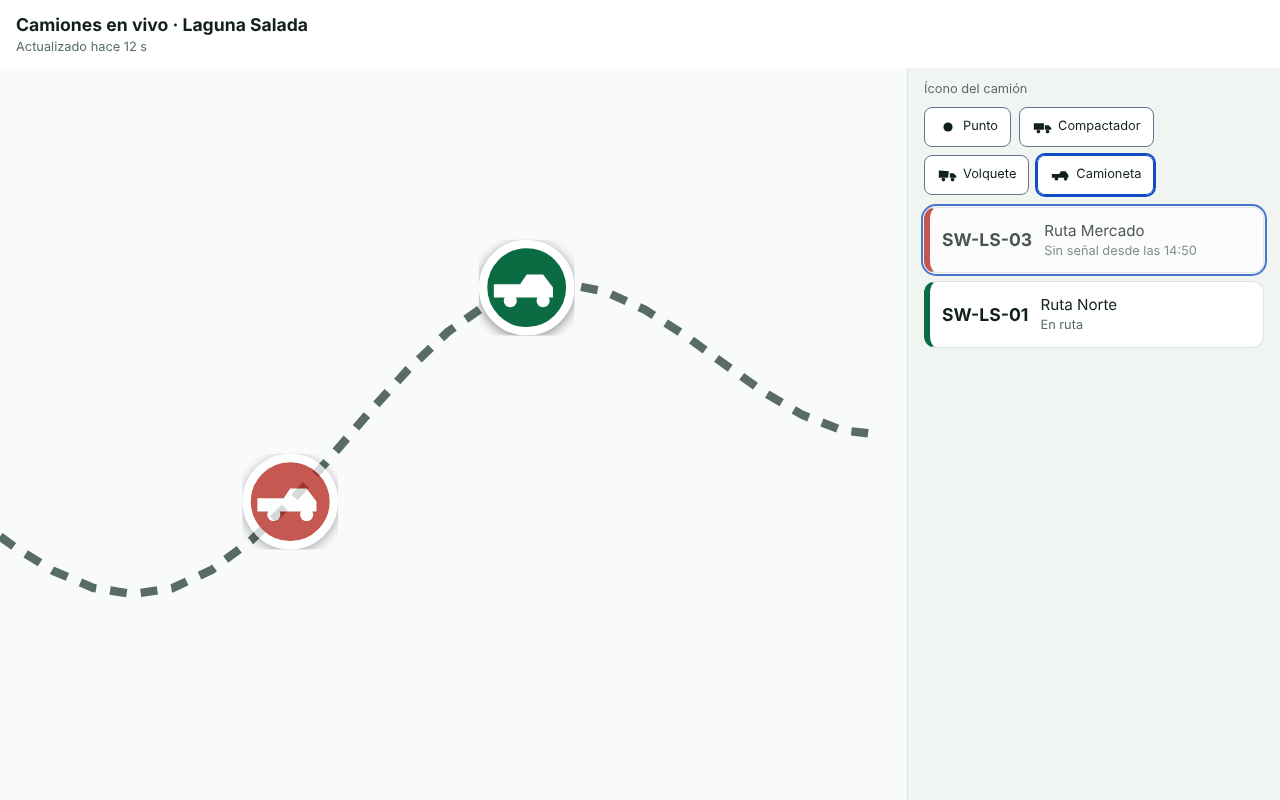
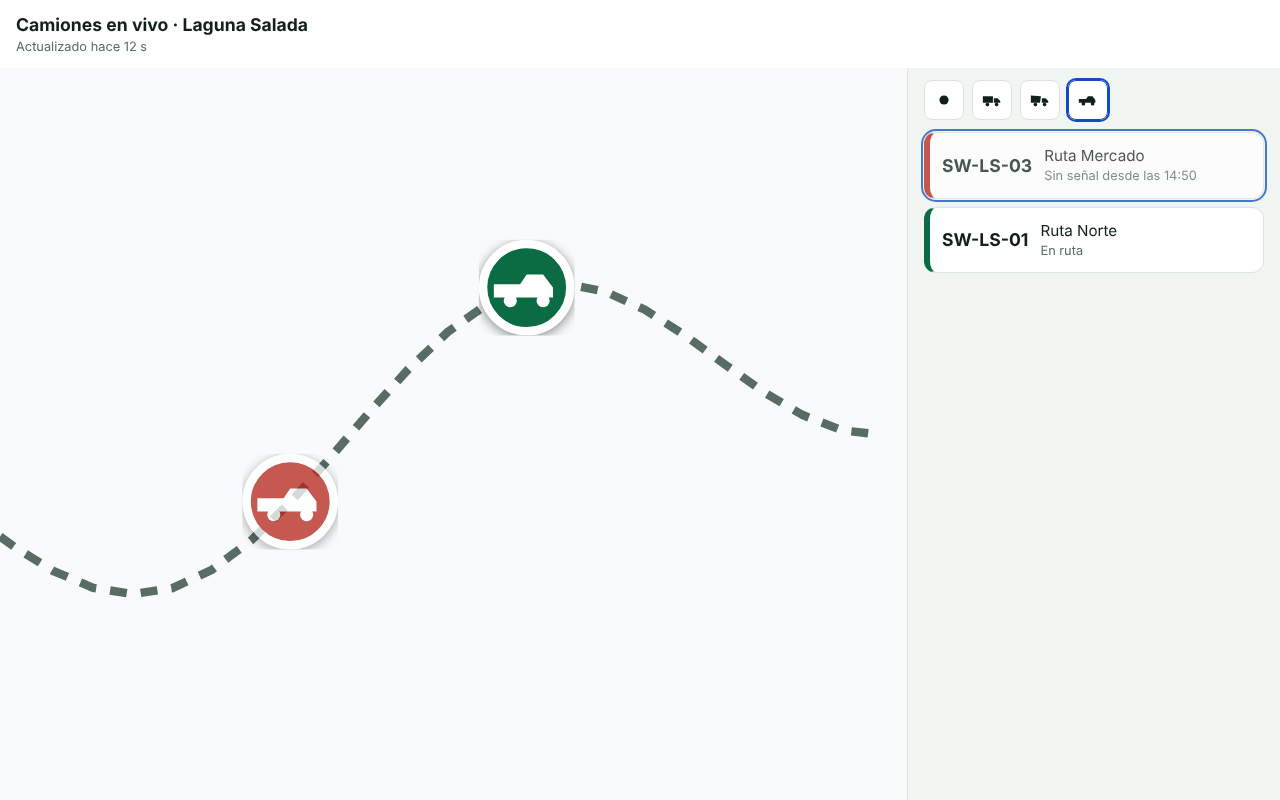
feat(SW-097): selector de íconos sin texto, estilo minimalista
Claude-Session: https://claude.ai/code/session_01TbnZphqsomRUw92ftRAxET

Changed region(s): [[0.7188, 0.0938, 1.0, 0.4375]]

diff --git a/docs/evidence/SW-097/harness-detenido.html b/docs/evidence/SW-097/harness-detenido.html
@@ -199,9 +199,8 @@
 .live-marker--detenido { background: var(--status-detenido); }
 .live-marker--sin_senal { background: var(--status-sin-senal); opacity: .75; }
 .live-icons { display: flex; flex-direction: column; gap: var(--space-2); }
-.live-icons__label { font-size: var(--font-size-1); color: var(--color-muted); }
 .live-icons__row { display: flex; flex-wrap: wrap; gap: var(--space-2); }
-.live-icon-option { display: inline-flex; align-items: center; gap: var(--space-1); padding: var(--space-2) var(--space-3); border: 1px solid var(--color-border-input); border-radius: var(--radius-1); background: var(--color-surface); color: var(--color-text); font: inherit; font-size: var(--font-size-1); cursor: pointer; }
+.live-icon-option { display: inline-flex; align-items: center; gap: var(--space-1); padding: var(--space-2); border: 1px solid var(--color-border); border-radius: var(--radius-1); background: var(--color-surface); color: var(--color-text); font: inherit; font-size: var(--font-size-1); cursor: pointer; }
 .live-icon-option[aria-pressed="true"] { border-color: var(--color-focus); outline: 2px solid var(--color-focus); }
 @media (min-width: 900px) {
   .live-shell { height: 100vh; }
@@ -209,4 +208,4 @@
   .live-map { flex: 1; height: auto; }
   .live-panel { width: 340px; overflow-y: auto; border-left: 1px solid var(--color-border); }
 }
-</style><script>var t=new URLSearchParams(location.search).get('t');document.documentElement.dataset.theme=t==='claro'?'claro':'oscuro';</script></head><body class="live-page"><div class="live-shell"><header class="live-header"><h1 class="live-header__title">Camiones en vivo · Laguna Salada</h1><p class="live-header__updated" aria-live="polite">Actualizado hace 6 s</p></header><div class="live-body"><div class="live-map"><svg viewBox="0 0 400 260" preserveAspectRatio="xMidYMid slice" role="img" aria-label="Mapa de ejemplo"><rect width="400" height="260" fill="var(--color-background-alt)"/><polyline points="30,160 44,170.0877878718461 58,178.7347921227895 72,184.65883939231585 86,186.87751605453252 100,184.81631831007059 114,178.37189707302727 128,167.92343526953297 142,154.29090506543247 156,138.6448003223947 170,122.37728148498059 184,106.9489180564662 198,93.72790018768288 212,83.83941994916952 226,78.04180331608288 240,76.64302901347446 254,79.4668243372968 268,85.87207033022764 282,94.82338007204297 296,105.00508039528691 310,114.9660492228488 324,123.27946394875156 338,128.69987478475224 352,130.30031147945493" fill="none" stroke="var(--color-muted)" stroke-width="3" stroke-dasharray="6 5"/><foreignObject x="125" y="137.29090506543247" width="34" height="34"><span class="live-marker live-marker--detenido"><svg viewBox="0 0 24 24" width="22" height="22" aria-hidden="true"><path fill="currentColor" d="M2 7l11 1-1 7H2zM14 10h4l3 3v2h-7z"/><circle cx="7" cy="17" r="2" fill="currentColor"/><circle cx="17" cy="17" r="2" fill="currentColor"/></svg></span></foreignObject><foreignObject x="209" y="61.04180331608288" width="34" height="34"><span class="live-marker live-marker--en_ruta"><svg viewBox="0 0 24 24" width="22" height="22" aria-hidden="true"><path fill="currentColor" d="M2 7l11 1-1 7H2zM14 10h4l3 3v2h-7z"/><circle cx="7" cy="17" r="2" fill="currentColor"/><circle cx="17" cy="17" r="2" fill="currentColor"/></svg></span></foreignObject></svg></div><div class="live-panel"><div class="live-icons" role="group" aria-label="Ícono de los camiones"><span class="live-icons__label">Ícono del camión</span><div class="live-icons__row"><button type="button" class="live-icon-option" data-live-icon="punto" aria-pressed="false" title="Punto"><svg viewBox="0 0 24 24" width="22" height="22" aria-hidden="true"><circle cx="12" cy="12" r="5" fill="currentColor"/></svg><span>Punto</span></button><button type="button" class="live-icon-option" data-live-icon="compactador" aria-pressed="false" title="Compactador"><svg viewBox="0 0 24 24" width="22" height="22" aria-hidden="true"><path fill="currentColor" d="M2 8h11v7H2zM14 10h4l3 3v2h-7z"/><circle cx="7" cy="17" r="2" fill="currentColor"/><circle cx="17" cy="17" r="2" fill="currentColor"/></svg><span>Compactador</span></button><button type="button" class="live-icon-option" data-live-icon="volquete" aria-pressed="true" title="Volquete"><svg viewBox="0 0 24 24" width="22" height="22" aria-hidden="true"><path fill="currentColor" d="M2 7l11 1-1 7H2zM14 10h4l3 3v2h-7z"/><circle cx="7" cy="17" r="2" fill="currentColor"/><circle cx="17" cy="17" r="2" fill="currentColor"/></svg><span>Volquete</span></button><button type="button" class="live-icon-option" data-live-icon="camioneta" aria-pressed="false" title="Camioneta"><svg viewBox="0 0 24 24" width="22" height="22" aria-hidden="true"><path fill="currentColor" d="M2 11h8l2-3h5l3 4v3H2z"/><circle cx="7" cy="16" r="2" fill="currentColor"/><circle cx="17" cy="16" r="2" fill="currentColor"/></svg><span>Camioneta</span></button></div></div><ul class="live-list"><li><button type="button" class="live-card live-card--detenido" data-live-vehicle="SW-LS-02" aria-current="true"><span class="live-card__code">SW-LS-02</span><span class="live-card__route">Ruta Centro</span><span class="live-card__status">Detenido hace 7 min</span></button></li><li><button type="button" class="live-card live-card--en_ruta" data-live-vehicle="SW-LS-01"><span class="live-card__code">SW-LS-01</span><span class="live-card__route">Ruta Norte</span><span class="live-card__status">En ruta</span></button></li></ul></div></div></div></body></html>
+</style><script>var t=new URLSearchParams(location.search).get('t');document.documentElement.dataset.theme=t==='claro'?'claro':'oscuro';</script></head><body class="live-page"><div class="live-shell"><header class="live-header"><h1 class="live-header__title">Camiones en vivo · Laguna Salada</h1><p class="live-header__updated" aria-live="polite">Actualizado hace 6 s</p></header><div class="live-body"><div class="live-map"><svg viewBox="0 0 400 260" preserveAspectRatio="xMidYMid slice" role="img" aria-label="Mapa de ejemplo"><rect width="400" height="260" fill="var(--color-background-alt)"/><polyline points="30,160 44,170.0877878718461 58,178.7347921227895 72,184.65883939231585 86,186.87751605453252 100,184.81631831007059 114,178.37189707302727 128,167.92343526953297 142,154.29090506543247 156,138.6448003223947 170,122.37728148498059 184,106.9489180564662 198,93.72790018768288 212,83.83941994916952 226,78.04180331608288 240,76.64302901347446 254,79.4668243372968 268,85.87207033022764 282,94.82338007204297 296,105.00508039528691 310,114.9660492228488 324,123.27946394875156 338,128.69987478475224 352,130.30031147945493" fill="none" stroke="var(--color-muted)" stroke-width="3" stroke-dasharray="6 5"/><foreignObject x="125" y="137.29090506543247" width="34" height="34"><span class="live-marker live-marker--detenido"><svg viewBox="0 0 24 24" width="22" height="22" aria-hidden="true"><path fill="currentColor" d="M2 7l11 1-1 7H2zM14 10h4l3 3v2h-7z"/><circle cx="7" cy="17" r="2" fill="currentColor"/><circle cx="17" cy="17" r="2" fill="currentColor"/></svg></span></foreignObject><foreignObject x="209" y="61.04180331608288" width="34" height="34"><span class="live-marker live-marker--en_ruta"><svg viewBox="0 0 24 24" width="22" height="22" aria-hidden="true"><path fill="currentColor" d="M2 7l11 1-1 7H2zM14 10h4l3 3v2h-7z"/><circle cx="7" cy="17" r="2" fill="currentColor"/><circle cx="17" cy="17" r="2" fill="currentColor"/></svg></span></foreignObject></svg></div><div class="live-panel"><div class="live-icons" role="group" aria-label="Ícono de los camiones"><div class="live-icons__row"><button type="button" class="live-icon-option" data-live-icon="punto" aria-pressed="false" title="Punto" aria-label="Punto"><svg viewBox="0 0 24 24" width="22" height="22" aria-hidden="true"><circle cx="12" cy="12" r="5" fill="currentColor"/></svg></button><button type="button" class="live-icon-option" data-live-icon="compactador" aria-pressed="false" title="Compactador" aria-label="Compactador"><svg viewBox="0 0 24 24" width="22" height="22" aria-hidden="true"><path fill="currentColor" d="M2 8h11v7H2zM14 10h4l3 3v2h-7z"/><circle cx="7" cy="17" r="2" fill="currentColor"/><circle cx="17" cy="17" r="2" fill="currentColor"/></svg></button><button type="button" class="live-icon-option" data-live-icon="volquete" aria-pressed="true" title="Volquete" aria-label="Volquete"><svg viewBox="0 0 24 24" width="22" height="22" aria-hidden="true"><path fill="currentColor" d="M2 7l11 1-1 7H2zM14 10h4l3 3v2h-7z"/><circle cx="7" cy="17" r="2" fill="currentColor"/><circle cx="17" cy="17" r="2" fill="currentColor"/></svg></button><button type="button" class="live-icon-option" data-live-icon="camioneta" aria-pressed="false" title="Camioneta" aria-label="Camioneta"><svg viewBox="0 0 24 24" width="22" height="22" aria-hidden="true"><path fill="currentColor" d="M2 11h8l2-3h5l3 4v3H2z"/><circle cx="7" cy="16" r="2" fill="currentColor"/><circle cx="17" cy="16" r="2" fill="currentColor"/></svg></button></div></div><ul class="live-list"><li><button type="button" class="live-card live-card--detenido" data-live-vehicle="SW-LS-02" aria-current="true"><span class="live-card__code">SW-LS-02</span><span class="live-card__route">Ruta Centro</span><span class="live-card__status">Detenido hace 7 min</span></button></li><li><button type="button" class="live-card live-card--en_ruta" data-live-vehicle="SW-LS-01"><span class="live-card__code">SW-LS-01</span><span class="live-card__route">Ruta Norte</span><span class="live-card__status">En ruta</span></button></li></ul></div></div></div></body></html>

diff --git a/docs/evidence/SW-097/harness-sin-senal.html b/docs/evidence/SW-097/harness-sin-senal.html
@@ -199,9 +199,8 @@
 .live-marker--detenido { background: var(--status-detenido); }
 .live-marker--sin_senal { background: var(--status-sin-senal); opacity: .75; }
 .live-icons { display: flex; flex-direction: column; gap: var(--space-2); }
-.live-icons__label { font-size: var(--font-size-1); color: var(--color-muted); }
 .live-icons__row { display: flex; flex-wrap: wrap; gap: var(--space-2); }
-.live-icon-option { display: inline-flex; align-items: center; gap: var(--space-1); padding: var(--space-2) var(--space-3); border: 1px solid var(--color-border-input); border-radius: var(--radius-1); background: var(--color-surface); color: var(--color-text); font: inherit; font-size: var(--font-size-1); cursor: pointer; }
+.live-icon-option { display: inline-flex; align-items: center; gap: var(--space-1); padding: var(--space-2); border: 1px solid var(--color-border); border-radius: var(--radius-1); background: var(--color-surface); color: var(--color-text); font: inherit; font-size: var(--font-size-1); cursor: pointer; }
 .live-icon-option[aria-pressed="true"] { border-color: var(--color-focus); outline: 2px solid var(--color-focus); }
 @media (min-width: 900px) {
   .live-shell { height: 100vh; }
@@ -209,4 +208,4 @@
   .live-map { flex: 1; height: auto; }
   .live-panel { width: 340px; overflow-y: auto; border-left: 1px solid var(--color-border); }
 }
-</style><script>var t=new URLSearchParams(location.search).get('t');document.documentElement.dataset.theme=t==='claro'?'claro':'oscuro';</script></head><body class="live-page"><div class="live-shell"><header class="live-header"><h1 class="live-header__title">Camiones en vivo · Laguna Salada</h1><p class="live-header__updated" aria-live="polite">Actualizado hace 12 s</p></header><div class="live-body"><div class="live-map"><svg viewBox="0 0 400 260" preserveAspectRatio="xMidYMid slice" role="img" aria-label="Mapa de ejemplo"><rect width="400" height="260" fill="var(--color-background-alt)"/><polyline points="30,160 44,170.0877878718461 58,178.7347921227895 72,184.65883939231585 86,186.87751605453252 100,184.81631831007059 114,178.37189707302727 128,167.92343526953297 142,154.29090506543247 156,138.6448003223947 170,122.37728148498059 184,106.9489180564662 198,93.72790018768288 212,83.83941994916952 226,78.04180331608288 240,76.64302901347446 254,79.4668243372968 268,85.87207033022764 282,94.82338007204297 296,105.00508039528691 310,114.9660492228488 324,123.27946394875156 338,128.69987478475224 352,130.30031147945493" fill="none" stroke="var(--color-muted)" stroke-width="3" stroke-dasharray="6 5"/><foreignObject x="125" y="137.29090506543247" width="34" height="34"><span class="live-marker live-marker--sin_senal"><svg viewBox="0 0 24 24" width="22" height="22" aria-hidden="true"><path fill="currentColor" d="M2 11h8l2-3h5l3 4v3H2z"/><circle cx="7" cy="16" r="2" fill="currentColor"/><circle cx="17" cy="16" r="2" fill="currentColor"/></svg></span></foreignObject><foreignObject x="209" y="61.04180331608288" width="34" height="34"><span class="live-marker live-marker--en_ruta"><svg viewBox="0 0 24 24" width="22" height="22" aria-hidden="true"><path fill="currentColor" d="M2 11h8l2-3h5l3 4v3H2z"/><circle cx="7" cy="16" r="2" fill="currentColor"/><circle cx="17" cy="16" r="2" fill="currentColor"/></svg></span></foreignObject></svg></div><div class="live-panel"><div class="live-icons" role="group" aria-label="Ícono de los camiones"><span class="live-icons__label">Ícono del camión</span><div class="live-icons__row"><button type="button" class="live-icon-option" data-live-icon="punto" aria-pressed="false" title="Punto"><svg viewBox="0 0 24 24" width="22" height="22" aria-hidden="true"><circle cx="12" cy="12" r="5" fill="currentColor"/></svg><span>Punto</span></button><button type="button" class="live-icon-option" data-live-icon="compactador" aria-pressed="false" title="Compactador"><svg viewBox="0 0 24 24" width="22" height="22" aria-hidden="true"><path fill="currentColor" d="M2 8h11v7H2zM14 10h4l3 3v2h-7z"/><circle cx="7" cy="17" r="2" fill="currentColor"/><circle cx="17" cy="17" r="2" fill="currentColor"/></svg><span>Compactador</span></button><button type="button" class="live-icon-option" data-live-icon="volquete" aria-pressed="false" title="Volquete"><svg viewBox="0 0 24 24" width="22" height="22" aria-hidden="true"><path fill="currentColor" d="M2 7l11 1-1 7H2zM14 10h4l3 3v2h-7z"/><circle cx="7" cy="17" r="2" fill="currentColor"/><circle cx="17" cy="17" r="2" fill="currentColor"/></svg><span>Volquete</span></button><button type="button" class="live-icon-option" data-live-icon="camioneta" aria-pressed="true" title="Camioneta"><svg viewBox="0 0 24 24" width="22" height="22" aria-hidden="true"><path fill="currentColor" d="M2 11h8l2-3h5l3 4v3H2z"/><circle cx="7" cy="16" r="2" fill="currentColor"/><circle cx="17" cy="16" r="2" fill="currentColor"/></svg><span>Camioneta</span></button></div></div><ul class="live-list"><li><button type="button" class="live-card live-card--sin_senal is-stale" data-live-vehicle="SW-LS-03" aria-current="true"><span class="live-card__code">SW-LS-03</span><span class="live-card__route">Ruta Mercado</span><span class="live-card__status">Sin señal desde las 14:50</span></button></li><li><button type="button" class="live-card live-card--en_ruta" data-live-vehicle="SW-LS-01"><span class="live-card__code">SW-LS-01</span><span class="live-card__route">Ruta Norte</span><span class="live-card__status">En ruta</span></button></li></ul></div></div></div></body></html>
+</style><script>var t=new URLSearchParams(location.search).get('t');document.documentElement.dataset.theme=t==='claro'?'claro':'oscuro';</script></head><body class="live-page"><div class="live-shell"><header class="live-header"><h1 class="live-header__title">Camiones en vivo · Laguna Salada</h1><p class="live-header__updated" aria-live="polite">Actualizado hace 12 s</p></header><div class="live-body"><div class="live-map"><svg viewBox="0 0 400 260" preserveAspectRatio="xMidYMid slice" role="img" aria-label="Mapa de ejemplo"><rect width="400" height="260" fill="var(--color-background-alt)"/><polyline points="30,160 44,170.0877878718461 58,178.7347921227895 72,184.65883939231585 86,186.87751605453252 100,184.81631831007059 114,178.37189707302727 128,167.92343526953297 142,154.29090506543247 156,138.6448003223947 170,122.37728148498059 184,106.9489180564662 198,93.72790018768288 212,83.83941994916952 226,78.04180331608288 240,76.64302901347446 254,79.4668243372968 268,85.87207033022764 282,94.82338007204297 296,105.00508039528691 310,114.9660492228488 324,123.27946394875156 338,128.69987478475224 352,130.30031147945493" fill="none" stroke="var(--color-muted)" stroke-width="3" stroke-dasharray="6 5"/><foreignObject x="125" y="137.29090506543247" width="34" height="34"><span class="live-marker live-marker--sin_senal"><svg viewBox="0 0 24 24" width="22" height="22" aria-hidden="true"><path fill="currentColor" d="M2 11h8l2-3h5l3 4v3H2z"/><circle cx="7" cy="16" r="2" fill="currentColor"/><circle cx="17" cy="16" r="2" fill="currentColor"/></svg></span></foreignObject><foreignObject x="209" y="61.04180331608288" width="34" height="34"><span class="live-marker live-marker--en_ruta"><svg viewBox="0 0 24 24" width="22" height="22" aria-hidden="true"><path fill="currentColor" d="M2 11h8l2-3h5l3 4v3H2z"/><circle cx="7" cy="16" r="2" fill="currentColor"/><circle cx="17" cy="16" r="2" fill="currentColor"/></svg></span></foreignObject></svg></div><div class="live-panel"><div class="live-icons" role="group" aria-label="Ícono de los camiones"><div class="live-icons__row"><button type="button" class="live-icon-option" data-live-icon="punto" aria-pressed="false" title="Punto" aria-label="Punto"><svg viewBox="0 0 24 24" width="22" height="22" aria-hidden="true"><circle cx="12" cy="12" r="5" fill="currentColor"/></svg></button><button type="button" class="live-icon-option" data-live-icon="compactador" aria-pressed="false" title="Compactador" aria-label="Compactador"><svg viewBox="0 0 24 24" width="22" height="22" aria-hidden="true"><path fill="currentColor" d="M2 8h11v7H2zM14 10h4l3 3v2h-7z"/><circle cx="7" cy="17" r="2" fill="currentColor"/><circle cx="17" cy="17" r="2" fill="currentColor"/></svg></button><button type="button" class="live-icon-option" data-live-icon="volquete" aria-pressed="false" title="Volquete" aria-label="Volquete"><svg viewBox="0 0 24 24" width="22" height="22" aria-hidden="true"><path fill="currentColor" d="M2 7l11 1-1 7H2zM14 10h4l3 3v2h-7z"/><circle cx="7" cy="17" r="2" fill="currentColor"/><circle cx="17" cy="17" r="2" fill="currentColor"/></svg></button><button type="button" class="live-icon-option" data-live-icon="camioneta" aria-pressed="true" title="Camioneta" aria-label="Camioneta"><svg viewBox="0 0 24 24" width="22" height="22" aria-hidden="true"><path fill="currentColor" d="M2 11h8l2-3h5l3 4v3H2z"/><circle cx="7" cy="16" r="2" fill="currentColor"/><circle cx="17" cy="16" r="2" fill="currentColor"/></svg></button></div></div><ul class="live-list"><li><button type="button" class="live-card live-card--sin_senal is-stale" data-live-vehicle="SW-LS-03" aria-current="true"><span class="live-card__code">SW-LS-03</span><span class="live-card__route">Ruta Mercado</span><span class="live-card__status">Sin señal desde las 14:50</span></button></li><li><button type="button" class="live-card live-card--en_ruta" data-live-vehicle="SW-LS-01"><span class="live-card__code">SW-LS-01</span><span class="live-card__route">Ruta Norte</span><span class="live-card__status">En ruta</span></button></li></ul></div></div></div></body></html>

diff --git a/docs/evidence/SW-097/harness-error.html b/docs/evidence/SW-097/harness-error.html
@@ -199,9 +199,8 @@
 .live-marker--detenido { background: var(--status-detenido); }
 .live-marker--sin_senal { background: var(--status-sin-senal); opacity: .75; }
 .live-icons { display: flex; flex-direction: column; gap: var(--space-2); }
-.live-icons__label { font-size: var(--font-size-1); color: var(--color-muted); }
 .live-icons__row { display: flex; flex-wrap: wrap; gap: var(--space-2); }
-.live-icon-option { display: inline-flex; align-items: center; gap: var(--space-1); padding: var(--space-2) var(--space-3); border: 1px solid var(--color-border-input); border-radius: var(--radius-1); background: var(--color-surface); color: var(--color-text); font: inherit; font-size: var(--font-size-1); cursor: pointer; }
+.live-icon-option { display: inline-flex; align-items: center; gap: var(--space-1); padding: var(--space-2); border: 1px solid var(--color-border); border-radius: var(--radius-1); background: var(--color-surface); color: var(--color-text); font: inherit; font-size: var(--font-size-1); cursor: pointer; }
 .live-icon-option[aria-pressed="true"] { border-color: var(--color-focus); outline: 2px solid var(--color-focus); }
 @media (min-width: 900px) {
   .live-shell { height: 100vh; }
@@ -209,4 +208,4 @@
   .live-map { flex: 1; height: auto; }
   .live-panel { width: 340px; overflow-y: auto; border-left: 1px solid var(--color-border); }
 }
-</style><script>var t=new URLSearchParams(location.search).get('t');document.documentElement.dataset.theme=t==='claro'?'claro':'oscuro';</script></head><body class="live-page"><div class="live-shell"><header class="live-header"><h1 class="live-header__title">Camiones en vivo · Laguna Salada</h1><p class="live-header__updated" aria-live="polite">Actualizado hace 1 min</p></header><div class="live-body"><div class="live-map"><svg viewBox="0 0 400 260" preserveAspectRatio="xMidYMid slice" role="img" aria-label="Mapa de ejemplo"><rect width="400" height="260" fill="var(--color-background-alt)"/><polyline points="30,160 44,170.0877878718461 58,178.7347921227895 72,184.65883939231585 86,186.87751605453252 100,184.81631831007059 114,178.37189707302727 128,167.92343526953297 142,154.29090506543247 156,138.6448003223947 170,122.37728148498059 184,106.9489180564662 198,93.72790018768288 212,83.83941994916952 226,78.04180331608288 240,76.64302901347446 254,79.4668243372968 268,85.87207033022764 282,94.82338007204297 296,105.00508039528691 310,114.9660492228488 324,123.27946394875156 338,128.69987478475224 352,130.30031147945493" fill="none" stroke="var(--color-muted)" stroke-width="3" stroke-dasharray="6 5"/><foreignObject x="125" y="137.29090506543247" width="34" height="34"><span class="live-marker live-marker--en_ruta"><svg viewBox="0 0 24 24" width="22" height="22" aria-hidden="true"><circle cx="12" cy="12" r="5" fill="currentColor"/></svg></span></foreignObject><foreignObject x="209" y="61.04180331608288" width="34" height="34"><span class="live-marker live-marker--detenido"><svg viewBox="0 0 24 24" width="22" height="22" aria-hidden="true"><circle cx="12" cy="12" r="5" fill="currentColor"/></svg></span></foreignObject></svg></div><div class="live-panel"><div class="live-icons" role="group" aria-label="Ícono de los camiones"><span class="live-icons__label">Ícono del camión</span><div class="live-icons__row"><button type="button" class="live-icon-option" data-live-icon="punto" aria-pressed="true" title="Punto"><svg viewBox="0 0 24 24" width="22" height="22" aria-hidden="true"><circle cx="12" cy="12" r="5" fill="currentColor"/></svg><span>Punto</span></button><button type="button" class="live-icon-option" data-live-icon="compactador" aria-pressed="false" title="Compactador"><svg viewBox="0 0 24 24" width="22" height="22" aria-hidden="true"><path fill="currentColor" d="M2 8h11v7H2zM14 10h4l3 3v2h-7z"/><circle cx="7" cy="17" r="2" fill="currentColor"/><circle cx="17" cy="17" r="2" fill="currentColor"/></svg><span>Compactador</span></button><button type="button" class="live-icon-option" data-live-icon="volquete" aria-pressed="false" title="Volquete"><svg viewBox="0 0 24 24" width="22" height="22" aria-hidden="true"><path fill="currentColor" d="M2 7l11 1-1 7H2zM14 10h4l3 3v2h-7z"/><circle cx="7" cy="17" r="2" fill="currentColor"/><circle cx="17" cy="17" r="2" fill="currentColor"/></svg><span>Volquete</span></button><button type="button" class="live-icon-option" data-live-icon="camioneta" aria-pressed="false" title="Camioneta"><svg viewBox="0 0 24 24" width="22" height="22" aria-hidden="true"><path fill="currentColor" d="M2 11h8l2-3h5l3 4v3H2z"/><circle cx="7" cy="16" r="2" fill="currentColor"/><circle cx="17" cy="16" r="2" fill="currentColor"/></svg><span>Camioneta</span></button></div></div><div class="live-notice live-notice--error" role="status"><p>No pudimos actualizar. Reintentando…</p><p class="live-notice__hint">Mostramos la última posición conocida.</p></div><ul class="live-list"><li><button type="button" class="live-card live-card--en_ruta" data-live-vehicle="SW-LS-01" aria-current="true"><span class="live-card__code">SW-LS-01</span><span class="live-card__route">Ruta Norte</span><span class="live-card__status">En ruta</span></button></li><li><button type="button" class="live-card live-card--detenido" data-live-vehicle="SW-LS-02"><span class="live-card__code">SW-LS-02</span><span class="live-card__route">Ruta Centro</span><span class="live-card__status">Detenido hace 7 min</span></button></li></ul></div></div></div></body></html>
+</style><script>var t=new URLSearchParams(location.search).get('t');document.documentElement.dataset.theme=t==='claro'?'claro':'oscuro';</script></head><body class="live-page"><div class="live-shell"><header class="live-header"><h1 class="live-header__title">Camiones en vivo · Laguna Salada</h1><p class="live-header__updated" aria-live="polite">Actualizado hace 1 min</p></header><div class="live-body"><div class="live-map"><svg viewBox="0 0 400 260" preserveAspectRatio="xMidYMid slice" role="img" aria-label="Mapa de ejemplo"><rect width="400" height="260" fill="var(--color-background-alt)"/><polyline points="30,160 44,170.0877878718461 58,178.7347921227895 72,184.65883939231585 86,186.87751605453252 100,184.81631831007059 114,178.37189707302727 128,167.92343526953297 142,154.29090506543247 156,138.6448003223947 170,122.37728148498059 184,106.9489180564662 198,93.72790018768288 212,83.83941994916952 226,78.04180331608288 240,76.64302901347446 254,79.4668243372968 268,85.87207033022764 282,94.82338007204297 296,105.00508039528691 310,114.9660492228488 324,123.27946394875156 338,128.69987478475224 352,130.30031147945493" fill="none" stroke="var(--color-muted)" stroke-width="3" stroke-dasharray="6 5"/><foreignObject x="125" y="137.29090506543247" width="34" height="34"><span class="live-marker live-marker--en_ruta"><svg viewBox="0 0 24 24" width="22" height="22" aria-hidden="true"><circle cx="12" cy="12" r="5" fill="currentColor"/></svg></span></foreignObject><foreignObject x="209" y="61.04180331608288" width="34" height="34"><span class="live-marker live-marker--detenido"><svg viewBox="0 0 24 24" width="22" height="22" aria-hidden="true"><circle cx="12" cy="12" r="5" fill="currentColor"/></svg></span></foreignObject></svg></div><div class="live-panel"><div class="live-icons" role="group" aria-label="Ícono de los camiones"><div class="live-icons__row"><button type="button" class="live-icon-option" data-live-icon="punto" aria-pressed="true" title="Punto" aria-label="Punto"><svg viewBox="0 0 24 24" width="22" height="22" aria-hidden="true"><circle cx="12" cy="12" r="5" fill="currentColor"/></svg></button><button type="button" class="live-icon-option" data-live-icon="compactador" aria-pressed="false" title="Compactador" aria-label="Compactador"><svg viewBox="0 0 24 24" width="22" height="22" aria-hidden="true"><path fill="currentColor" d="M2 8h11v7H2zM14 10h4l3 3v2h-7z"/><circle cx="7" cy="17" r="2" fill="currentColor"/><circle cx="17" cy="17" r="2" fill="currentColor"/></svg></button><button type="button" class="live-icon-option" data-live-icon="volquete" aria-pressed="false" title="Volquete" aria-label="Volquete"><svg viewBox="0 0 24 24" width="22" height="22" aria-hidden="true"><path fill="currentColor" d="M2 7l11 1-1 7H2zM14 10h4l3 3v2h-7z"/><circle cx="7" cy="17" r="2" fill="currentColor"/><circle cx="17" cy="17" r="2" fill="currentColor"/></svg></button><button type="button" class="live-icon-option" data-live-icon="camioneta" aria-pressed="false" title="Camioneta" aria-label="Camioneta"><svg viewBox="0 0 24 24" width="22" height="22" aria-hidden="true"><path fill="currentColor" d="M2 11h8l2-3h5l3 4v3H2z"/><circle cx="7" cy="16" r="2" fill="currentColor"/><circle cx="17" cy="16" r="2" fill="currentColor"/></svg></button></div></div><div class="live-notice live-notice--error" role="status"><p>No pudimos actualizar. Reintentando…</p><p class="live-notice__hint">Mostramos la última posición conocida.</p></div><ul class="live-list"><li><button type="button" class="live-card live-card--en_ruta" data-live-vehicle="SW-LS-01" aria-current="true"><span class="live-card__code">SW-LS-01</span><span class="live-card__route">Ruta Norte</span><span class="live-card__status">En ruta</span></button></li><li><button type="button" class="live-card live-card--detenido" data-live-vehicle="SW-LS-02"><span class="live-card__code">SW-LS-02</span><span class="live-card__route">Ruta Centro</span><span class="live-card__status">Detenido hace 7 min</span></button></li></ul></div></div></div></body></html>

diff --git a/docs/evidence/SW-097/harness-en-ruta.html b/docs/evidence/SW-097/harness-en-ruta.html
@@ -199,9 +199,8 @@
 .live-marker--detenido { background: var(--status-detenido); }
 .live-marker--sin_senal { background: var(--status-sin-senal); opacity: .75; }
 .live-icons { display: flex; flex-direction: column; gap: var(--space-2); }
-.live-icons__label { font-size: var(--font-size-1); color: var(--color-muted); }
 .live-icons__row { display: flex; flex-wrap: wrap; gap: var(--space-2); }
-.live-icon-option { display: inline-flex; align-items: center; gap: var(--space-1); padding: var(--space-2) var(--space-3); border: 1px solid var(--color-border-input); border-radius: var(--radius-1); background: var(--color-surface); color: var(--color-text); font: inherit; font-size: var(--font-size-1); cursor: pointer; }
+.live-icon-option { display: inline-flex; align-items: center; gap: var(--space-1); padding: var(--space-2); border: 1px solid var(--color-border); border-radius: var(--radius-1); background: var(--color-surface); color: var(--color-text); font: inherit; font-size: var(--font-size-1); cursor: pointer; }
 .live-icon-option[aria-pressed="true"] { border-color: var(--color-focus); outline: 2px solid var(--color-focus); }
 @media (min-width: 900px) {
   .live-shell { height: 100vh; }
@@ -209,4 +208,4 @@
   .live-map { flex: 1; height: auto; }
   .live-panel { width: 340px; overflow-y: auto; border-left: 1px solid var(--color-border); }
 }
-</style><script>var t=new URLSearchParams(location.search).get('t');document.documentElement.dataset.theme=t==='claro'?'claro':'oscuro';</script></head><body class="live-page"><div class="live-shell"><header class="live-header"><h1 class="live-header__title">Camiones en vivo · Laguna Salada</h1><p class="live-header__updated" aria-live="polite">Actualizado hace 6 s</p></header><div class="live-body"><div class="live-map"><svg viewBox="0 0 400 260" preserveAspectRatio="xMidYMid slice" role="img" aria-label="Mapa de ejemplo"><rect width="400" height="260" fill="var(--color-background-alt)"/><polyline points="30,160 44,170.0877878718461 58,178.7347921227895 72,184.65883939231585 86,186.87751605453252 100,184.81631831007059 114,178.37189707302727 128,167.92343526953297 142,154.29090506543247 156,138.6448003223947 170,122.37728148498059 184,106.9489180564662 198,93.72790018768288 212,83.83941994916952 226,78.04180331608288 240,76.64302901347446 254,79.4668243372968 268,85.87207033022764 282,94.82338007204297 296,105.00508039528691 310,114.9660492228488 324,123.27946394875156 338,128.69987478475224 352,130.30031147945493" fill="none" stroke="var(--color-muted)" stroke-width="3" stroke-dasharray="6 5"/><foreignObject x="125" y="137.29090506543247" width="34" height="34"><span class="live-marker live-marker--en_ruta"><svg viewBox="0 0 24 24" width="22" height="22" aria-hidden="true"><path fill="currentColor" d="M2 8h11v7H2zM14 10h4l3 3v2h-7z"/><circle cx="7" cy="17" r="2" fill="currentColor"/><circle cx="17" cy="17" r="2" fill="currentColor"/></svg></span></foreignObject></svg></div><div class="live-panel"><div class="live-icons" role="group" aria-label="Ícono de los camiones"><span class="live-icons__label">Ícono del camión</span><div class="live-icons__row"><button type="button" class="live-icon-option" data-live-icon="punto" aria-pressed="false" title="Punto"><svg viewBox="0 0 24 24" width="22" height="22" aria-hidden="true"><circle cx="12" cy="12" r="5" fill="currentColor"/></svg><span>Punto</span></button><button type="button" class="live-icon-option" data-live-icon="compactador" aria-pressed="true" title="Compactador"><svg viewBox="0 0 24 24" width="22" height="22" aria-hidden="true"><path fill="currentColor" d="M2 8h11v7H2zM14 10h4l3 3v2h-7z"/><circle cx="7" cy="17" r="2" fill="currentColor"/><circle cx="17" cy="17" r="2" fill="currentColor"/></svg><span>Compactador</span></button><button type="button" class="live-icon-option" data-live-icon="volquete" aria-pressed="false" title="Volquete"><svg viewBox="0 0 24 24" width="22" height="22" aria-hidden="true"><path fill="currentColor" d="M2 7l11 1-1 7H2zM14 10h4l3 3v2h-7z"/><circle cx="7" cy="17" r="2" fill="currentColor"/><circle cx="17" cy="17" r="2" fill="currentColor"/></svg><span>Volquete</span></button><button type="button" class="live-icon-option" data-live-icon="camioneta" aria-pressed="false" title="Camioneta"><svg viewBox="0 0 24 24" width="22" height="22" aria-hidden="true"><path fill="currentColor" d="M2 11h8l2-3h5l3 4v3H2z"/><circle cx="7" cy="16" r="2" fill="currentColor"/><circle cx="17" cy="16" r="2" fill="currentColor"/></svg><span>Camioneta</span></button></div></div><ul class="live-list"><li><button type="button" class="live-card live-card--en_ruta" data-live-vehicle="SW-LS-01" aria-current="true"><span class="live-card__code">SW-LS-01</span><span class="live-card__route">Ruta Norte</span><span class="live-card__status">En ruta</span></button></li></ul></div></div></div></body></html>
+</style><script>var t=new URLSearchParams(location.search).get('t');document.documentElement.dataset.theme=t==='claro'?'claro':'oscuro';</script></head><body class="live-page"><div class="live-shell"><header class="live-header"><h1 class="live-header__title">Camiones en vivo · Laguna Salada</h1><p class="live-header__updated" aria-live="polite">Actualizado hace 6 s</p></header><div class="live-body"><div class="live-map"><svg viewBox="0 0 400 260" preserveAspectRatio="xMidYMid slice" role="img" aria-label="Mapa de ejemplo"><rect width="400" height="260" fill="var(--color-background-alt)"/><polyline points="30,160 44,170.0877878718461 58,178.7347921227895 72,184.65883939231585 86,186.87751605453252 100,184.81631831007059 114,178.37189707302727 128,167.92343526953297 142,154.29090506543247 156,138.6448003223947 170,122.37728148498059 184,106.9489180564662 198,93.72790018768288 212,83.83941994916952 226,78.04180331608288 240,76.64302901347446 254,79.4668243372968 268,85.87207033022764 282,94.82338007204297 296,105.00508039528691 310,114.9660492228488 324,123.27946394875156 338,128.69987478475224 352,130.30031147945493" fill="none" stroke="var(--color-muted)" stroke-width="3" stroke-dasharray="6 5"/><foreignObject x="125" y="137.29090506543247" width="34" height="34"><span class="live-marker live-marker--en_ruta"><svg viewBox="0 0 24 24" width="22" height="22" aria-hidden="true"><path fill="currentColor" d="M2 8h11v7H2zM14 10h4l3 3v2h-7z"/><circle cx="7" cy="17" r="2" fill="currentColor"/><circle cx="17" cy="17" r="2" fill="currentColor"/></svg></span></foreignObject></svg></div><div class="live-panel"><div class="live-icons" role="group" aria-label="Ícono de los camiones"><div class="live-icons__row"><button type="button" class="live-icon-option" data-live-icon="punto" aria-pressed="false" title="Punto" aria-label="Punto"><svg viewBox="0 0 24 24" width="22" height="22" aria-hidden="true"><circle cx="12" cy="12" r="5" fill="currentColor"/></svg></button><button type="button" class="live-icon-option" data-live-icon="compactador" aria-pressed="true" title="Compactador" aria-label="Compactador"><svg viewBox="0 0 24 24" width="22" height="22" aria-hidden="true"><path fill="currentColor" d="M2 8h11v7H2zM14 10h4l3 3v2h-7z"/><circle cx="7" cy="17" r="2" fill="currentColor"/><circle cx="17" cy="17" r="2" fill="currentColor"/></svg></button><button type="button" class="live-icon-option" data-live-icon="volquete" aria-pressed="false" title="Volquete" aria-label="Volquete"><svg viewBox="0 0 24 24" width="22" height="22" aria-hidden="true"><path fill="currentColor" d="M2 7l11 1-1 7H2zM14 10h4l3 3v2h-7z"/><circle cx="7" cy="17" r="2" fill="currentColor"/><circle cx="17" cy="17" r="2" fill="currentColor"/></svg></button><button type="button" class="live-icon-option" data-live-icon="camioneta" aria-pressed="false" title="Camioneta" aria-label="Camioneta"><svg viewBox="0 0 24 24" width="22" height="22" aria-hidden="true"><path fill="currentColor" d="M2 11h8l2-3h5l3 4v3H2z"/><circle cx="7" cy="16" r="2" fill="currentColor"/><circle cx="17" cy="16" r="2" fill="currentColor"/></svg></button></div></div><ul class="live-list"><li><button type="button" class="live-card live-card--en_ruta" data-live-vehicle="SW-LS-01" aria-current="true"><span class="live-card__code">SW-LS-01</span><span class="live-card__route">Ruta Norte</span><span class="live-card__status">En ruta</span></button></li></ul></div></div></div></body></html>

diff --git a/docs/evidence/SW-097/harness-sin-municipio.html b/docs/evidence/SW-097/harness-sin-municipio.html
@@ -199,9 +199,8 @@
 .live-marker--detenido { background: var(--status-detenido); }
 .live-marker--sin_senal { background: var(--status-sin-senal); opacity: .75; }
 .live-icons { display: flex; flex-direction: column; gap: var(--space-2); }
-.live-icons__label { font-size: var(--font-size-1); color: var(--color-muted); }
 .live-icons__row { display: flex; flex-wrap: wrap; gap: var(--space-2); }
-.live-icon-option { display: inline-flex; align-items: center; gap: var(--space-1); padding: var(--space-2) var(--space-3); border: 1px solid var(--color-border-input); border-radius: var(--radius-1); background: var(--color-surface); color: var(--color-text); font: inherit; font-size: var(--font-size-1); cursor: pointer; }
+.live-icon-option { display: inline-flex; align-items: center; gap: var(--space-1); padding: var(--space-2); border: 1px solid var(--color-border); border-radius: var(--radius-1); background: var(--color-surface); color: var(--color-text); font: inherit; font-size: var(--font-size-1); cursor: pointer; }
 .live-icon-option[aria-pressed="true"] { border-color: var(--color-focus); outline: 2px solid var(--color-focus); }
 @media (min-width: 900px) {
   .live-shell { height: 100vh; }

diff --git a/docs/evidence/SW-097/harness-vacio.html b/docs/evidence/SW-097/harness-vacio.html
@@ -199,9 +199,8 @@
 .live-marker--detenido { background: var(--status-detenido); }
 .live-marker--sin_senal { background: var(--status-sin-senal); opacity: .75; }
 .live-icons { display: flex; flex-direction: column; gap: var(--space-2); }
-.live-icons__label { font-size: var(--font-size-1); color: var(--color-muted); }
 .live-icons__row { display: flex; flex-wrap: wrap; gap: var(--space-2); }
-.live-icon-option { display: inline-flex; align-items: center; gap: var(--space-1); padding: var(--space-2) var(--space-3); border: 1px solid var(--color-border-input); border-radius: var(--radius-1); background: var(--color-surface); color: var(--color-text); font: inherit; font-size: var(--font-size-1); cursor: pointer; }
+.live-icon-option { display: inline-flex; align-items: center; gap: var(--space-1); padding: var(--space-2); border: 1px solid var(--color-border); border-radius: var(--radius-1); background: var(--color-surface); color: var(--color-text); font: inherit; font-size: var(--font-size-1); cursor: pointer; }
 .live-icon-option[aria-pressed="true"] { border-color: var(--color-focus); outline: 2px solid var(--color-focus); }
 @media (min-width: 900px) {
   .live-shell { height: 100vh; }

diff --git a/frontend/styles/live.css b/frontend/styles/live.css
@@ -26,9 +26,8 @@
 .live-marker--detenido { background: var(--status-detenido); }
 .live-marker--sin_senal { background: var(--status-sin-senal); opacity: .75; }
 .live-icons { display: flex; flex-direction: column; gap: var(--space-2); }
-.live-icons__label { font-size: var(--font-size-1); color: var(--color-muted); }
 .live-icons__row { display: flex; flex-wrap: wrap; gap: var(--space-2); }
-.live-icon-option { display: inline-flex; align-items: center; gap: var(--space-1); padding: var(--space-2) var(--space-3); border: 1px solid var(--color-border-input); border-radius: var(--radius-1); background: var(--color-surface); color: var(--color-text); font: inherit; font-size: var(--font-size-1); cursor: pointer; }
+.live-icon-option { display: inline-flex; align-items: center; gap: var(--space-1); padding: var(--space-2); border: 1px solid var(--color-border); border-radius: var(--radius-1); background: var(--color-surface); color: var(--color-text); font: inherit; font-size: var(--font-size-1); cursor: pointer; }
 .live-icon-option[aria-pressed="true"] { border-color: var(--color-focus); outline: 2px solid var(--color-focus); }
 @media (min-width: 900px) {
   .live-shell { height: 100vh; }

diff --git a/frontend/components/live-map.js b/frontend/components/live-map.js
@@ -47,6 +47,6 @@ export function renderLiveMarker({ icon, status } = {}) {
 
 export function renderLiveIconPicker({ selected } = {}) {
   const current = iconOf(selected).id;
-  const opts = LIVE_ICONS.map((i) => `<button type="button" class="live-icon-option" data-live-icon="${i.id}" aria-pressed="${i.id === current}" title="${esc(i.label)}">${renderLiveIconSvg(i.id)}<span>${esc(i.label)}</span></button>`).join('');
-  return `<div class="live-icons" role="group" aria-label="Ícono de los camiones"><span class="live-icons__label">Ícono del camión</span><div class="live-icons__row">${opts}</div></div>`;
+  const opts = LIVE_ICONS.map((i) => `<button type="button" class="live-icon-option" data-live-icon="${i.id}" aria-pressed="${i.id === current}" title="${esc(i.label)}" aria-label="${esc(i.label)}">${renderLiveIconSvg(i.id)}</button>`).join('');
+  return `<div class="live-icons" role="group" aria-label="Ícono de los camiones"><div class="live-icons__row">${opts}</div></div>`;
 }
